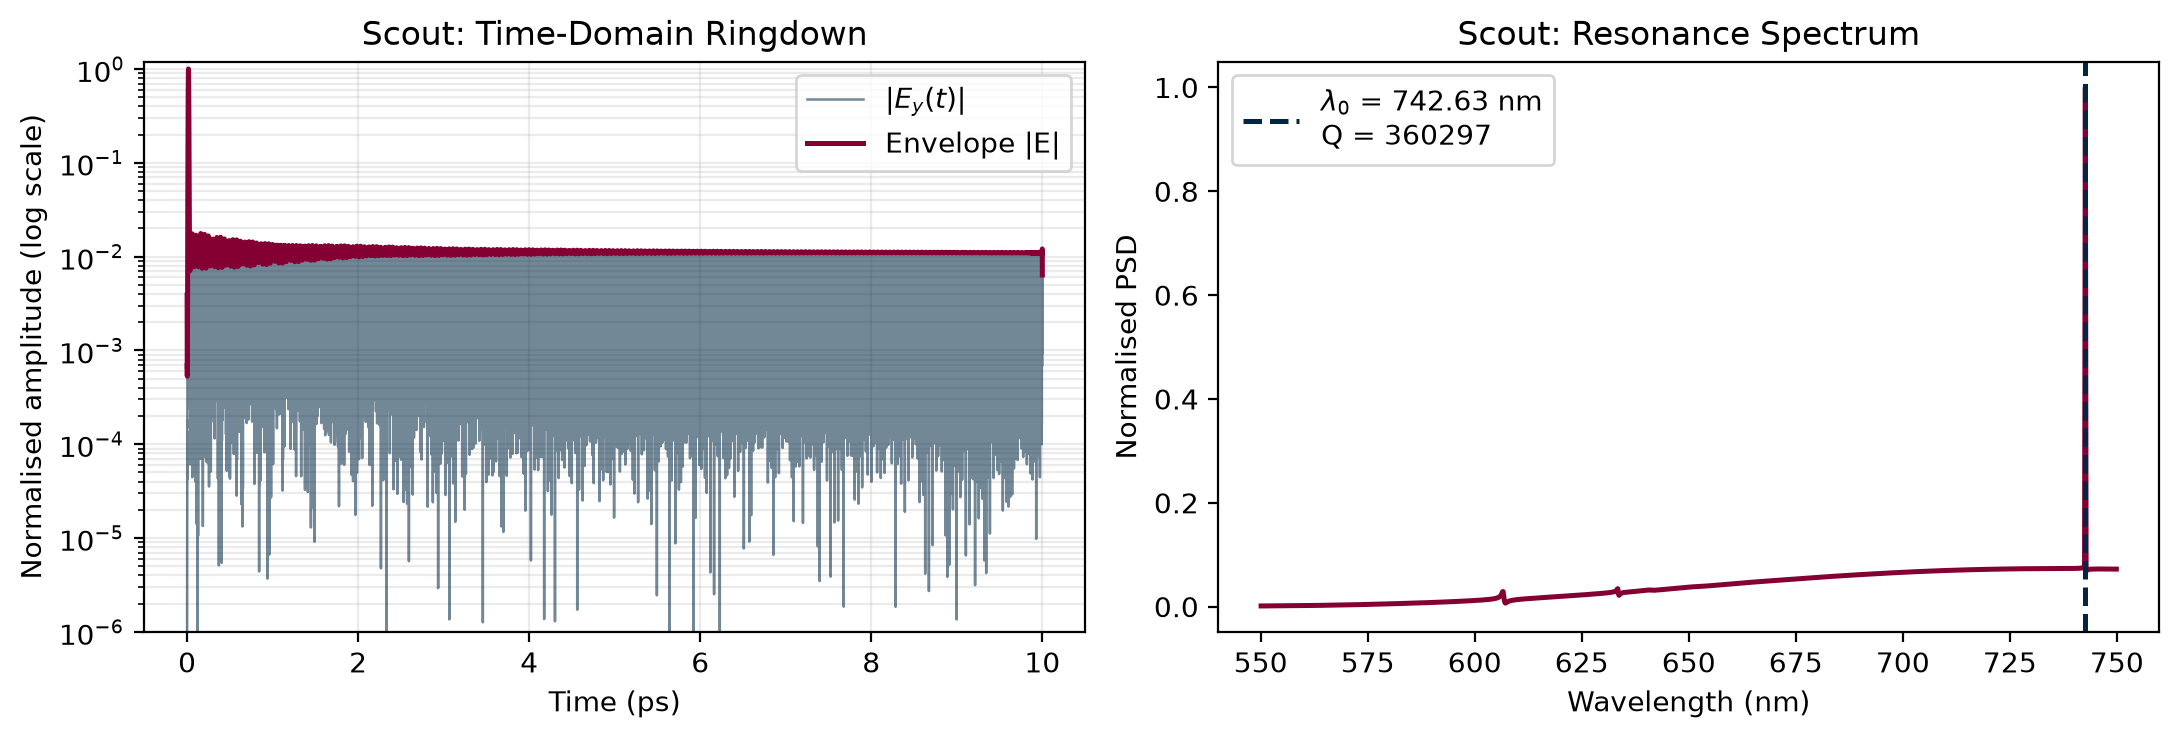
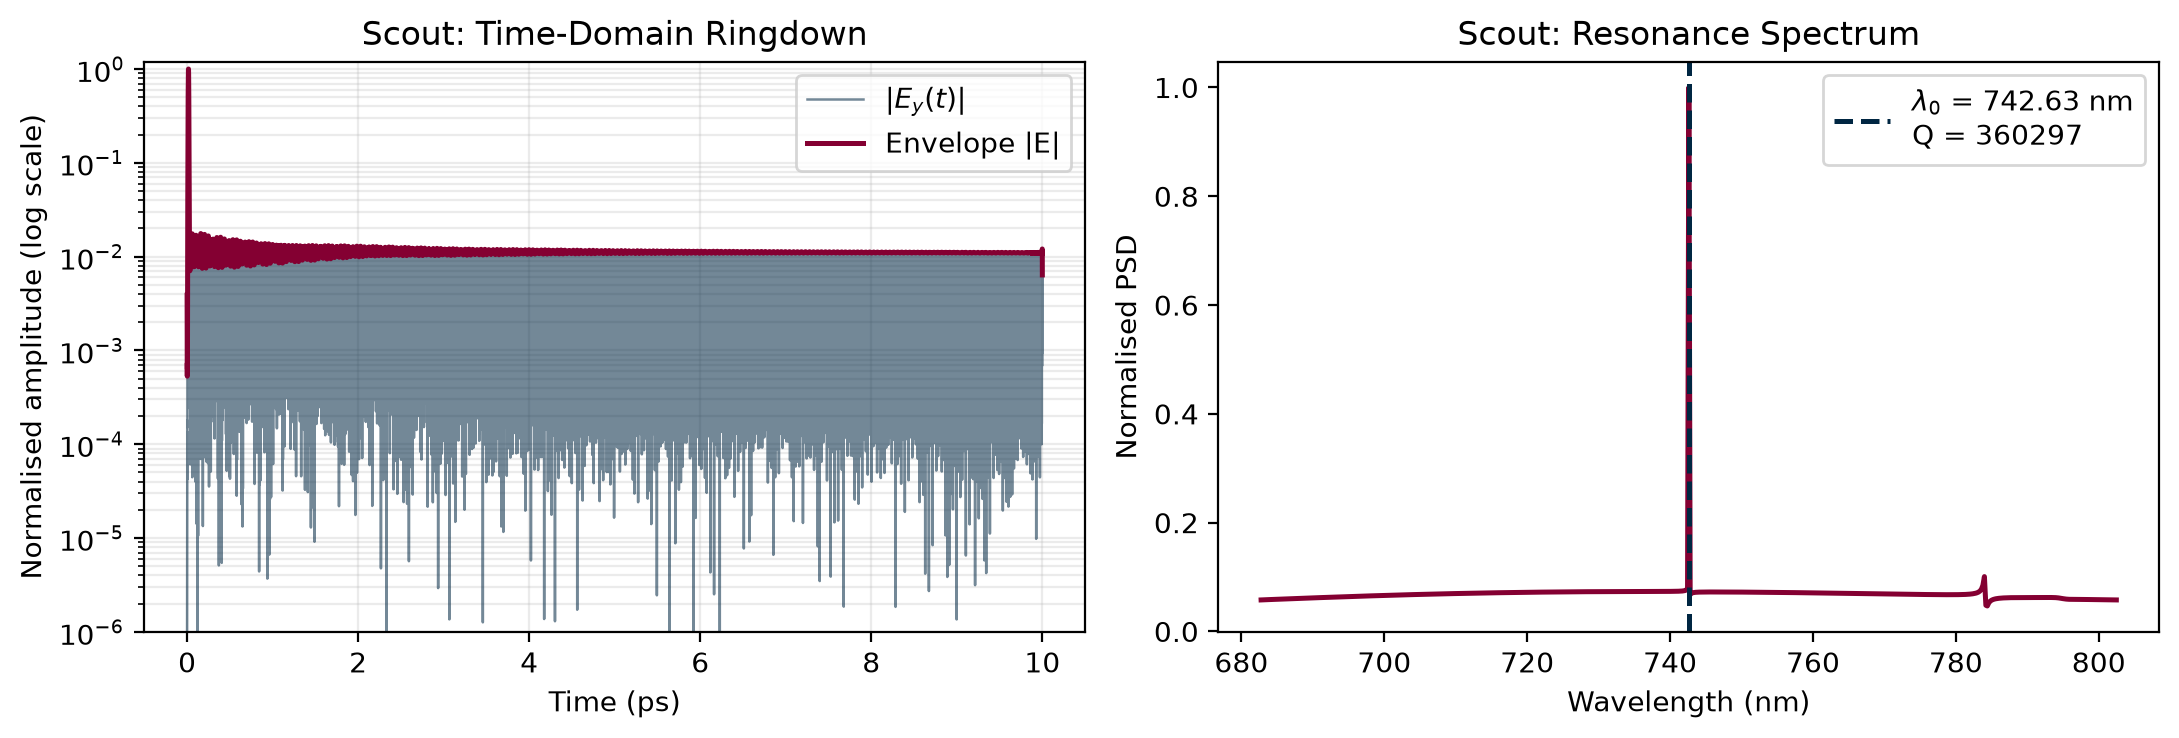
Center scout ringdown spectrum on detected resonance; refresh apodized lock-in results
- plot_ringdown for the scout stage now gets wavelength_window_nm centered on
  the resonance found by ResonanceFinder (+/- 60 nm) instead of the default
  550-750 nm window, which clipped the 742.6 nm peak at the plot edge.
- Regenerated figures from the re-run lock-in (now with ApodizationSpec on all
  six frequency monitors): near-field map and mode volume no longer include
  the dipole source transient. Q unchanged at 6.9e5; corrected values are
  V_eff = 0.202 um^3 = 54.9 (lambda/2n)^3, F_P ~ 7.6e3.
- GDS and demo notebook churn from re-running the workflow (timestamps/outputs).

diff --git a/siv_cavity/postprocess.py b/siv_cavity/postprocess.py
@@ -348,9 +348,11 @@ def run_full_analysis(
 
     # -- Ringdown visualisation
     print("\n-- Ringdown visualisation ------------------------------------")
+    wl_scout_nm = res_scout["wavelength_um"] * 1e3
     plot_ringdown(
         data_scout,
         res_scout,
+        wavelength_window_nm=(wl_scout_nm - 60.0, wl_scout_nm + 60.0),
         title_prefix="Scout: ",
         save_path=fig_dir / "ringdown_scout.png",
     )